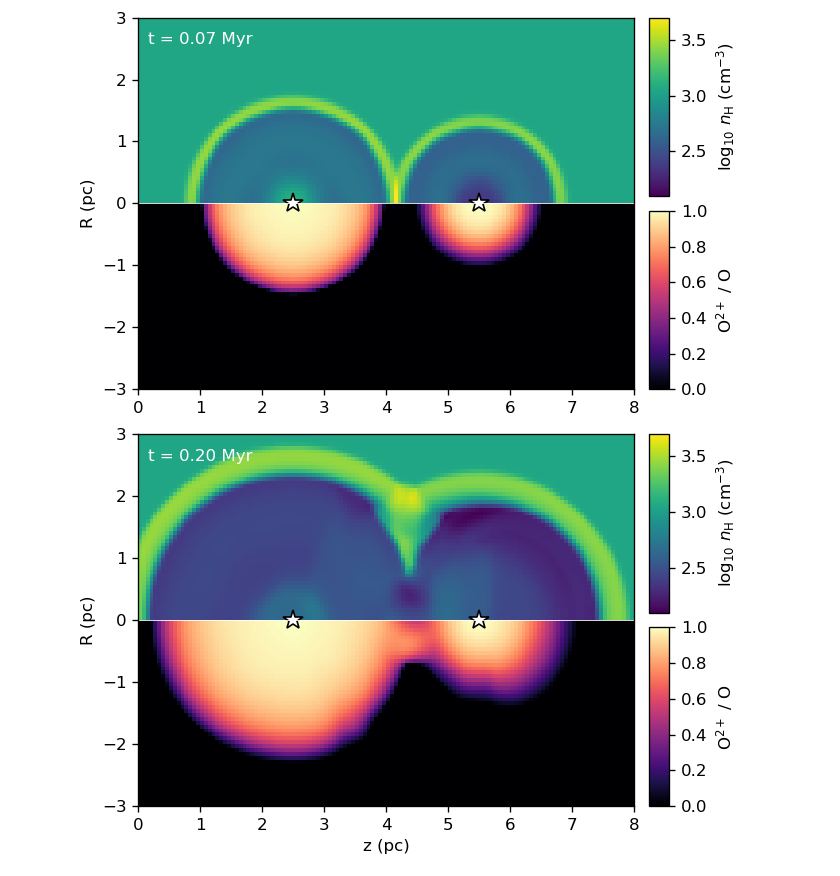
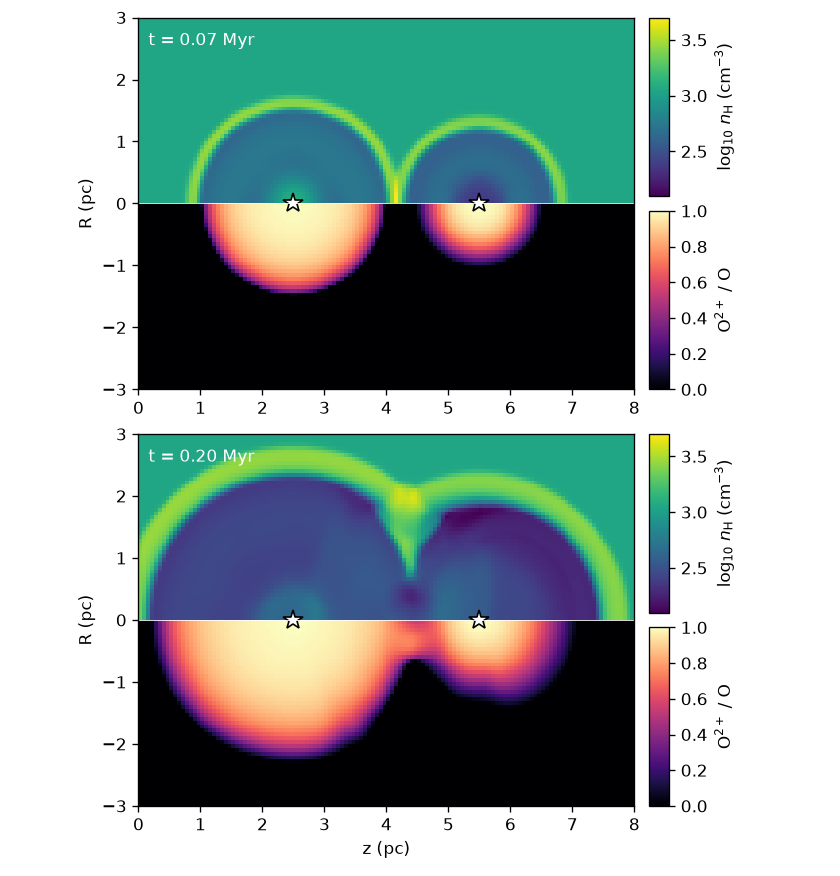
NEMO: timestep criterion 5 recommended; examples rerun with it
- modules.rst (NEMO), parameter-file.rst, command_line.rst,
  troubleshooting.rst: EP_MP_timestep_limit 5 is recommended with NEMO
  (NEMO 1.5 or later), with what it limits (the ion fractions of the
  abundant elements and the internal energy, so trace elements do not set
  the timestep).
- Both NEMO examples use it, rerun with PION v3.0.0-dev.1 and NEMO 1.7.0:
  - 1D HII region: 1720 instead of 2870 timesteps, about 30 seconds
    (was about 10 minutes); same result (ion mass fractions to 1e-9).
  - 2D two sources: 2150 instead of 21,600 timesteps (median timestep
    about 80 instead of 10 years), about 5 minutes with 4 x 5 threads; the
    same result to 1% (density and pressure to 0.3%).
  - New figures (unchanged in appearance).
- TODO.md: done.

diff --git a/docs/example_nemo2d.rst b/docs/example_nemo2d.rst
@@ -24,7 +24,7 @@ The setup
 + **Grid**: 2D cylindrical coordinates (:math:`z`, :math:`R`), with 128 × 64 cells over 8 × 4 pc (0.0625 pc per cell). The :math:`z`-axis is the symmetry axis.
 + **Gas**: uniform, neutral gas at 600 K with a hydrogen number density :math:`n_\mathrm{H}\approx1100\,\mathrm{cm}^{-3}`. The elements are H, He and O, with tracers for all ionisation stages of O (14 tracers).
 + **Stars**: two blackbody point sources on the axis, at :math:`z=2.5` pc (40,000 K, the star of the 1D example) and :math:`z=5.5` pc (35,000 K, :math:`15\,R_\odot`). The radiation of both stars is ray-traced, and NEMO adds up the photoionisation and heating rates from both.
-+ **Physics**: hydrodynamics (``EP_dynamics 1``) together with all of the microphysics of the 1D example, and the microphysics timestep limit (``EP_MP_timestep_limit 1``).
++ **Physics**: hydrodynamics (``EP_dynamics 1``) together with all of the microphysics of the 1D example, and NEMO's recommended microphysics timestep limit (``EP_MP_timestep_limit 5``).
 + **Output**: a snapshot every 0.01 Myr until 0.2 Myr.
 
 The Strömgren radii of the two stars are 1.0 and 0.67 pc, so the HII regions are at first separated by more than a parsec of neutral gas.
@@ -38,12 +38,13 @@ Running the simulation
 .. code-block:: bash
 
   $ mpirun -np 1 /path/to/pion/build/icgen-ug params_TwoSrc_NEMO_n128.txt redirect=ic
-  $ mpirun -np 4 --map-by slot:PE=10 --bind-to core \
-      /path/to/pion/build/pion-ug TwoSrc_n128_0000.00000000.silo omp-nthreads=10 redirect=run
+  $ mpirun -np 4 --map-by slot:PE=5 --bind-to core \
+      /path/to/pion/build/pion-ug TwoSrc_n128_0000.00000000.silo omp-nthreads=5 redirect=run
 
 (see :ref:`parallel` for the binding options).
-This takes about 21,600 timesteps and about 1 hour with 4 MPI processes of 10 threads each.
-The timestep, about 10 years, is set by the microphysics (``EP_MP_timestep_limit 1``), not by the hydrodynamics, which would allow timesteps of almost 1000 years.
+This takes about 2150 timesteps and about 5 minutes with 4 MPI processes of 5 threads each.
+The timestep, typically about 80 years, is set by the microphysics, not by the hydrodynamics, which would allow timesteps of almost 1000 years.
+With ``EP_MP_timestep_limit 1`` the timestep is about 10 years: the run takes 21,600 timesteps and 30 minutes, and gives the same result to within 1% (density and pressure to 0.3%).
 Without this limit the simulation crashes in the first timestep, when the gas around the stars is heated from 600 K to :math:`10^4` K.
 
 

diff --git a/docs/example_nemo.rst b/docs/example_nemo.rst
@@ -77,7 +77,7 @@ With ``InitIons LEAVE``, ``icgen`` keeps these values.
   ...
 
 **Physical processes**: photoionisation by the star (which needs ray-tracing), collisional ionisation, radiative recombination, charge exchange, cosmic-ray ionisation, and heating and cooling of the gas.
-The microphysics limits the timestep (``EP_MP_timestep_limit 1``).
+The microphysics limits the timestep with NEMO's recommended criterion (``EP_MP_timestep_limit 5``, see :ref:`ref-nemo`).
 
 .. code-block:: none
 
@@ -89,7 +89,7 @@ The microphysics limits the timestep (``EP_MP_timestep_limit 1``).
   EP_charge_exchange 1
   EP_cr_ionisation 1
   EP_update_erg 1
-  EP_MP_timestep_limit 1
+  EP_MP_timestep_limit 5
   EP_nemo_reltol 1.0e-6
   EP_nemo_abstol 1.0e-12
 
@@ -127,10 +127,11 @@ Make the initial conditions, and then run the simulation, here with 4 MPI proces
   $ mpirun -np 1 /path/to/pion/build/icgen-ug params_HII40_NEMO_n128.txt redirect=ic
   $ mpirun -np 4 /path/to/pion/build/pion-ug HII40_n128_0000.00000000.silo omp-nthreads=2 redirect=run
 
-This takes about 10 minutes on a desktop computer (about 2900 timesteps).
+This takes about 30 seconds on a desktop computer (about 1700 timesteps).
+With ``EP_MP_timestep_limit 1`` it takes about 2900 timesteps, and gives the same result (the ion fractions agree to :math:`10^{-9}`).
 Almost all of the timesteps are in the first 0.01 Myr, while the ionisation front moves out from the star and the gas heats up; after that the gas is close to equilibrium and the timesteps are much longer.
 The recombination time of hydrogen at this density is about 1000 years, so the HII region reaches equilibrium long before 0.1 Myr.
-The 32-cell version takes about 2 minutes.
+The 32-cell version takes a few seconds.
 
 The log files ``run_0.log``, etc., show the progress (see :ref:`command-line-logs`), and the snapshots are ``HII40_n128_0000.<step>.silo``.
 
@@ -144,7 +145,7 @@ The fraction of the fully ionised stage of each element is one minus the sum of 
 
 .. code-block:: bash
 
-  $ python3 plot_hii40.py params_HII40_NEMO_n128.txt HII40_n128_0000.00002864.silo hii40_nemo.png
+  $ python3 plot_hii40.py params_HII40_NEMO_n128.txt HII40_n128_0000.00001723.silo hii40_nemo.png
 
 (the step number of the last snapshot may be different on your computer).
 

diff --git a/docs/modules.rst b/docs/modules.rst
@@ -383,9 +383,14 @@ Parameter                      Effect
                                (1), or keep the temperature fixed (0).
 ``EP_MP_timestep_limit``       How NEMO limits the timestep.  Required, with no
                                default: 0 = no limit; 1 = the fraction of every ion in
-                               its element may change by at most 0.1 in a step; 5 = the
-                               newer criterion of NEMO 1.5 (see the NEMO
-                               documentation).  Other values stop PION with an error.
+                               its element may change by at most 0.1 in a step;
+                               5 (recommended, NEMO 1.5 or later) = limits the change
+                               in a step of the ion fractions of the abundant elements
+                               and of the internal energy, so that trace elements do
+                               not set the timestep.  5 usually allows longer steps
+                               than 1 for the same result (see the examples,
+                               :ref:`example-nemo`).  Other values stop PION with an
+                               error.
 ``EP_Min_Temperature``         Minimum gas temperature (K).
 ``EP_Max_Temperature``         Maximum gas temperature (K).
 ``EP_nemo_reltol``             Relative tolerance of the CVODE integration (e.g.

diff --git a/docs/parameter-file.rst b/docs/parameter-file.rst
@@ -286,8 +286,9 @@ Parameter                   Default      Description
                                          working); 4 = recombination time; 5 = also with implicit
                                          ray-tracing (``RT_update 1``).  MPv3, MPv5, MPv6, MPv7 and
                                          MPv8 ignore this value and always use 1.  With NEMO the
-                                         parameter is required (no default) and must be 0, 1 or 5
-                                         (see :ref:`ref-microphysics`).
+                                         parameter is required (no default) and must be 0, 1 or 5,
+                                         with its own meaning for each; 5 is recommended (see
+                                         :ref:`ref-nemo`).
 ``EP_Min_Temperature``      0            Minimum gas temperature (K).
 ``EP_Max_Temperature``      1.0e100      Maximum gas temperature (K).
 ``EP_Hydrogen_MassFrac``    0.7154       Hydrogen mass fraction X, used by some microphysics modules

diff --git a/docs/troubleshooting.rst b/docs/troubleshooting.rst
@@ -91,7 +91,7 @@ Problems during a run
 
   Recent versions of PION warn about both: ``omp-nthreads=... but OMP_THREAD_LIMIT=...`` or ``omp-nthreads=... but this process can only use ... cores``.
   Older versions did not check ``OMP_THREAD_LIMIT``, and could report the requested number of threads while using fewer.
-  + Microphysics with many species (e.g. NEMO) can take most of the run time, and the timestep can be limited by the microphysics (``EP_MP_timestep_limit``) rather than by the hydrodynamics.  The log files show the timestep of each step.
+  + Microphysics with many species (e.g. NEMO) can take most of the run time, and the timestep can be limited by the microphysics (``EP_MP_timestep_limit``) rather than by the hydrodynamics.  The log files show the timestep of each step.  With NEMO, use ``EP_MP_timestep_limit 5``: with 1, the timestep is often set by trace elements and is much shorter.
 
 **NEMO stops with a CVODE error**
 

diff --git a/TODO.md b/TODO.md
@@ -59,6 +59,11 @@ Started from a review of `docs/` against the PION `devel` source
       types 11 and 12; `EP_MP_init_equilibrium` and
       `WIND_[i]_equilibrium`; developer guide: evolving winds and the wind
       timestep limit (#32; `mesa2pion.py` v2 is PION !45).
+- [x] NEMO's timestep criterion `EP_MP_timestep_limit 5` (NEMO 1.5 or
+      later): recommended in modules.rst, parameter-file.rst,
+      command_line.rst and troubleshooting.rst; both NEMO examples rerun
+      with it (1D: 1720 instead of 2870 steps; 2D: 2150 instead of 21,600,
+      same results), new figures.
 - [x] Checked #26 and #28 against PION `devel` after the branches
       `omp-thread-limit` and `analysis-tools-fixes` were merged
       (2026-11-20): warnings, `silo2fits` arguments and text file, and the

diff --git a/docs/command_line.rst b/docs/command_line.rst
@@ -154,7 +154,7 @@ Option                     Effect
                            ``NEMO`` (see :ref:`ref-microphysics`).
 ``cooling=N``              Cooling function: 0 for no cooling, or one of the cases described for
                            ``mp_only_cooling`` in :ref:`ref-microphysics`.
-``limit_timestep=N``       How the microphysics limits the timestep (``EP_MP_timestep_limit``, 0 to 5; with NEMO 0, 1 or 5).
+``limit_timestep=N``       How the microphysics limits the timestep (``EP_MP_timestep_limit``, 0 to 5; with NEMO 0, 1 or 5, and 5 is recommended).
 ``min_timestep=T``         Minimum timestep in seconds.
 ``min_T=T``                Minimum gas temperature in K.
 ``max_T=T``                Maximum gas temperature in K.
